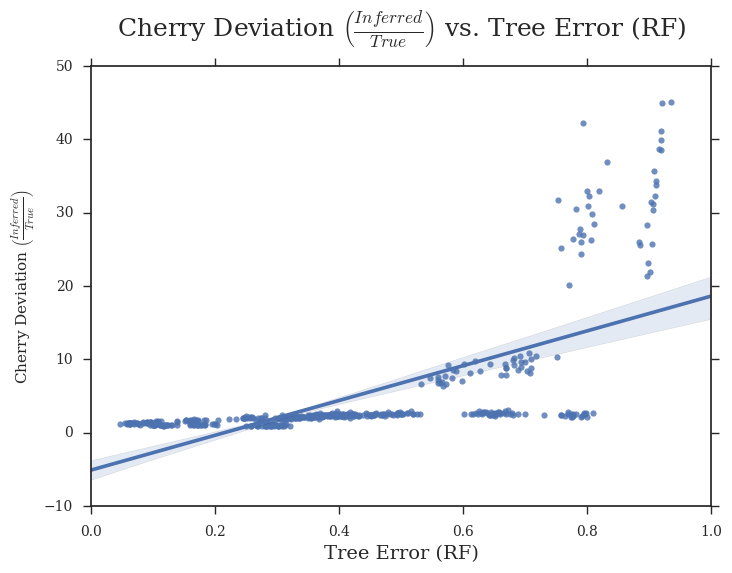
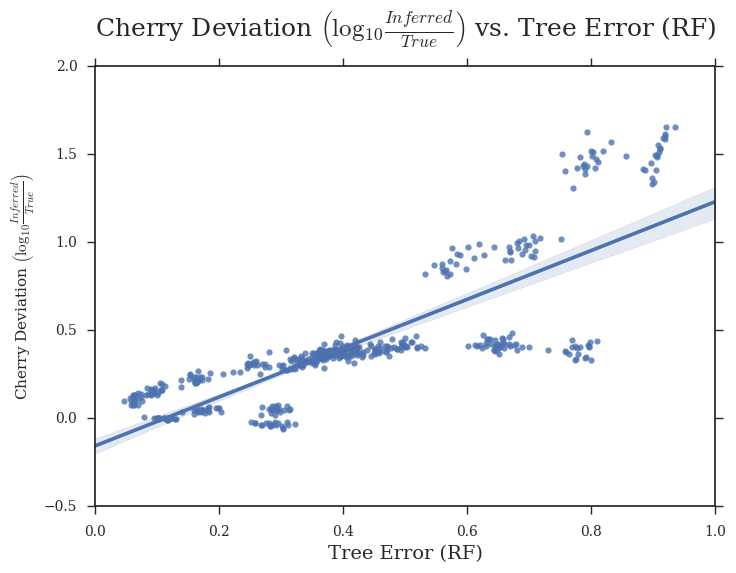
Changed ratio plot to log-scale

diff --git a/figures/scripts/4_cherry-deviation-vs-tree-error-rf.py b/figures/scripts/4_cherry-deviation-vs-tree-error-rf.py
@@ -54,7 +54,7 @@ diff  = [120,113,126,126,127,126,126,105,115,103,136,132,88,120,105,129,128,119,
          227,219,207,230,207,221,222,217,193,209,199,192,218,200,215,195,196,280,287,276,266,299,278,295,286,288,275,287,287,279,275,282,287,289,268,266,269]
 
 # store data as dataframe to make it easier to work with
-data = pd.DataFrame({'RF':np.asarray(rf),'ratio':np.asarray(ratio),'diff':np.asarray(diff)})
+data = pd.DataFrame({'RF':np.asarray(rf),'ratio':np.log10(np.asarray(ratio)),'diff':np.asarray(diff)})
 
 # plot cherry deviation (as difference) vs. tree error (RF)
 fig = plt.figure()
@@ -71,8 +71,8 @@ plt.close()
 fig = plt.figure()
 ax = sns.regplot(x='RF',y='ratio',data=data)
 sns.plt.xlabel('Tree Error (RF)',fontsize=14)
-sns.plt.ylabel(r'Cherry Deviation $\left(\frac{Inferred}{True}\right)$')
-sns.plt.title(r'Cherry Deviation $\left(\frac{Inferred}{True}\right)$ vs. Tree Error (RF)',fontsize=18,y=1.05)
+sns.plt.ylabel(r'Cherry Deviation $\left(\log_{10}{\frac{Inferred}{True}}\right)$')
+sns.plt.title(r'Cherry Deviation $\left(\log_{10}{\frac{Inferred}{True}}\right)$ vs. Tree Error (RF)',fontsize=18,y=1.05)
 sns.plt.show()
 fig.savefig('cherry-deviation-ratio_vs_tree-error-rf.png', bbox_inches='tight')
 plt.close()
